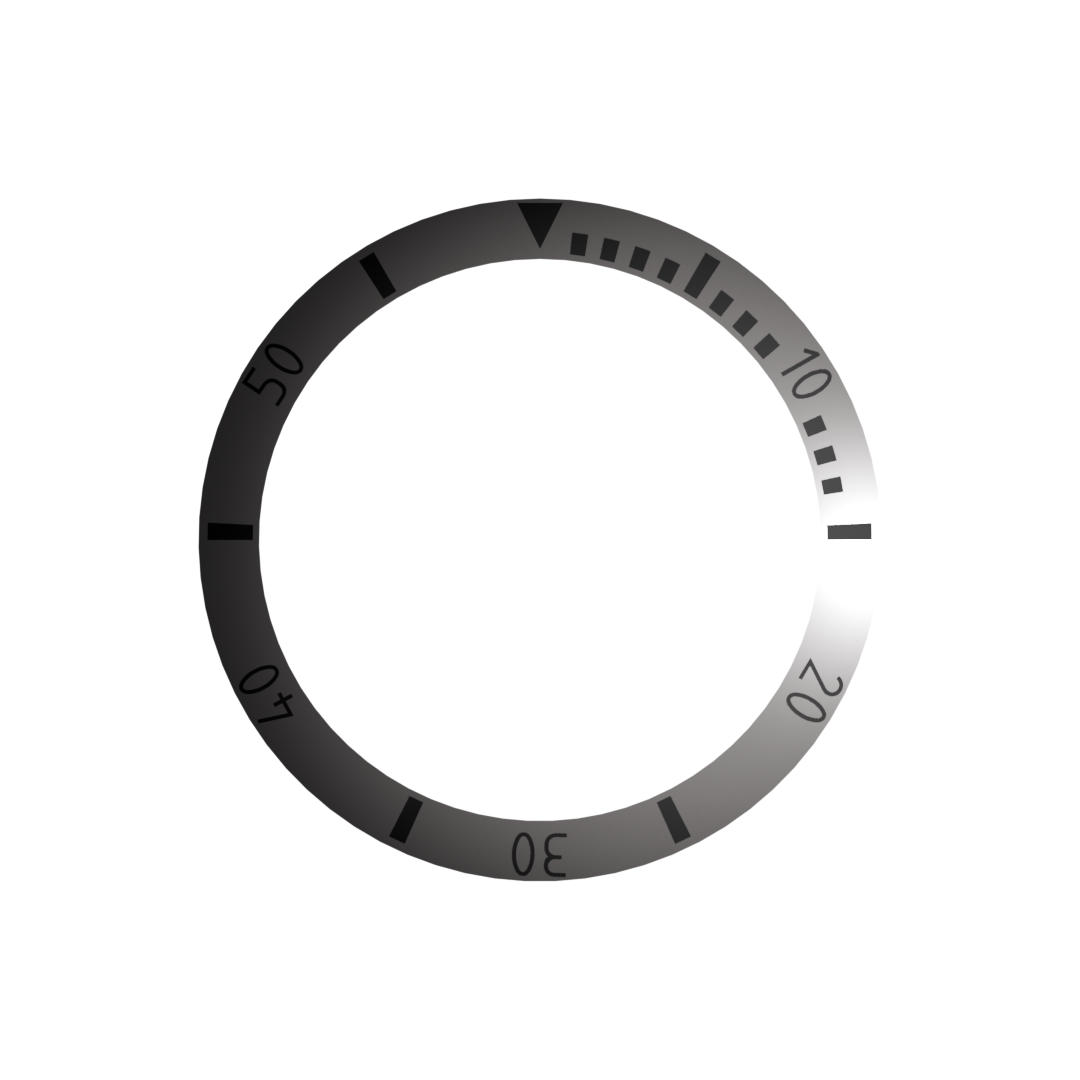
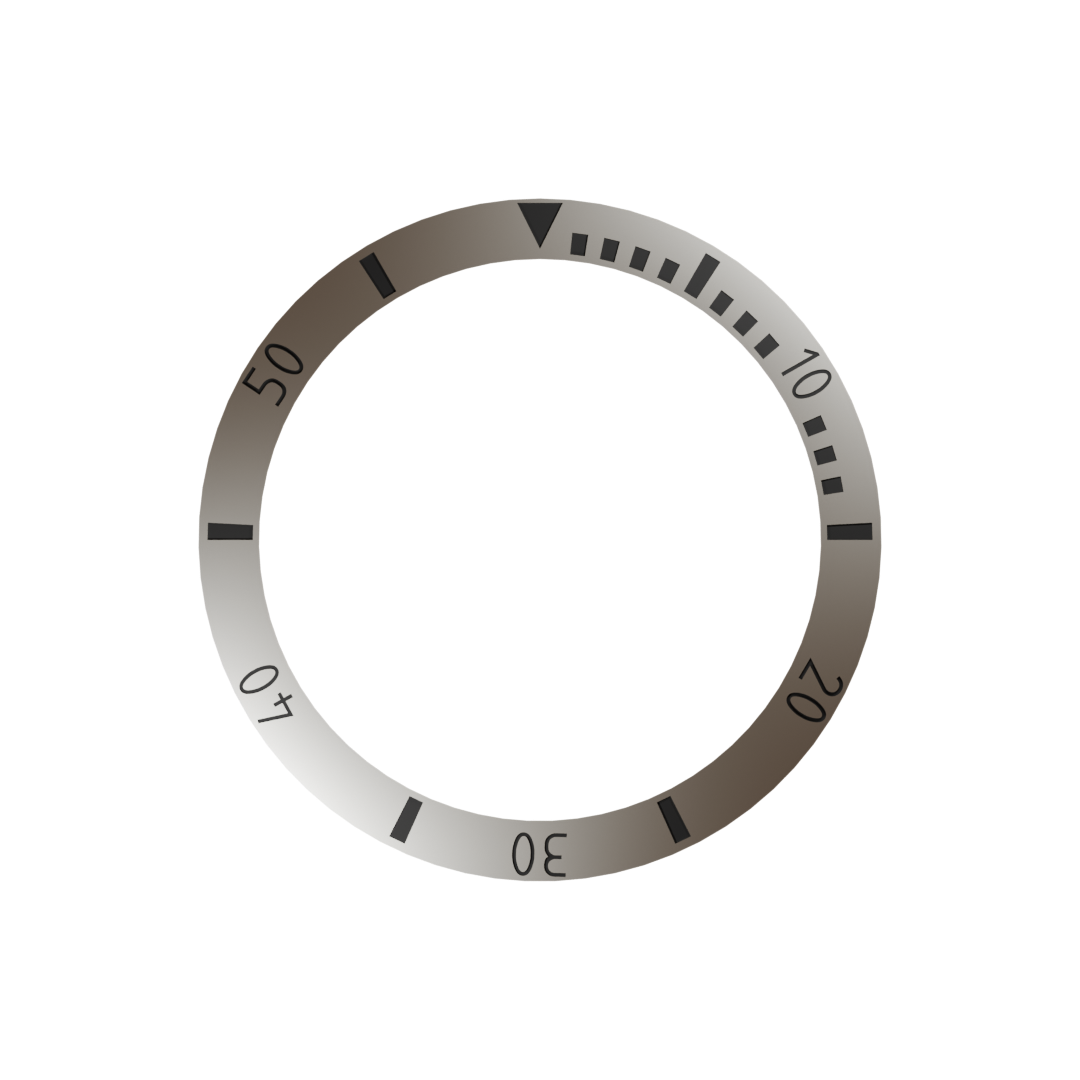
Redo on the renders and improved customization

Changed region(s): [[0.1833, 0.1833, 0.7944, 0.825], [0.6111, 0.3972, 0.825, 0.7944]]

diff --git a/index.html b/index.html
@@ -4,12 +4,14 @@
     <meta charset="UTF-8">
     <meta name="viewport" content="width=device-width, initial-scale=1.0">
     <title>Watch Builder</title>
+    <link href="https://fonts.googleapis.com/css2?family=Roboto:wght@400;700&display=swap" rel="stylesheet">
     <style>
 
         * {
             margin: 0;
             padding: 0;
-            font-family: 'Gill Sans', 'Gill Sans MT', Calibri, 'Trebuchet MS', sans-serif;
+            font-family: 'Roboto', sans-serif;
+            font-weight: 200;
         }
 
         body {
@@ -165,7 +167,7 @@
 
         <div class="selection-div flex-item">
             <br>
-            <h1 id="selection-title">Parts Selection</h1>
+            <h1 id="selection-title" style="font-weight: 200;">Parts Selection</h1>
             <br>
             <hr>
             <br>
@@ -188,13 +190,11 @@
                 <div class="menu-item" id="NH36_white">
                     <h4>NH36 - White</h4>
                     <p style="padding-top: 5px;">Day-Date movement</p>
-                    <p style="padding-top: 5px; color:red;">Dials Not Working</p>
                 </div>
 
                 <div class="menu-item" id="NH36_black">
                     <h4>NH36 - Black</h4>
                     <p style="padding-top: 5px;">Day-Date movement</p>
-                    <p style="padding-top: 5px; color:red;">Dials Not Working</p>
                 </div>
 
                 <div class="menu-item" id="NH38">
@@ -211,120 +211,51 @@
             <div class="dial-selection menu-list hidden">
 
                 <div id="NH34_36-dials" class="hidden">
-                    <h3 class="menu-subtitle">Pilot Style Dials</h3>
+                    <h3 class="menu-subtitle">Pilot Dial</h3>
+
+                        <div class="menu-item dial-buttons" id="pilot-black-dial">
+                            <h4>Black Marks</h4>
+                        </div>
+                        <div class="menu-item dial-buttons" id="pilot-tan__-dial">
+                            <h4>Tan Marks</h4>
+                        </div>
+                        <div class="menu-item dial-buttons" id="pilot-white-dial">
+                            <h4>White Marks</h4>
+                        </div>
                         
-                        <div class="menu-item pilot-dial" id="pilot-black">
-                            <h4>Black - White Indicators</h4>
+                    <h3 class="menu-subtitle">Pilot Dial</h3>
+
+                        <div class="menu-item dial-buttons" id="diver-black-dial">
+                            <h4>Black Marks</h4>
                         </div>
-
-                        <div class="menu-item pilot-dial" id="pilot-black-tan">
-                            <h4>Black - Tan Indicators</h4>
-                        </div>
-
-                        <div class="menu-item pilot-dial" id="pilot-black-black">
-                            <h4>Black - Black Indicators</h4>
-                        </div>
-
-                        <div class="menu-item pilot-dial" id="pilot-blue">
-                            <h4>Blue - White Indicators</h4>
-                        </div>
-
-                        <div class="menu-item pilot-dial" id="pilot-creme">
-                            <h4>Creme - White Indicators</h4>
-                        </div>
-
-                        <div class="menu-item pilot-dial" id="pilot-creme-black">
-                            <h4>Creme - Black Indicators</h4>
-                        </div>
-
-                        <div class="menu-item pilot-dial" id="pilot-gray">
-                            <h4>Gray - White Indicators</h4>
-                        </div>
-
-                        <div class="menu-item pilot-dial" id="pilot-green">
-                            <h4>Green - White Indicators</h4>
-                        </div>
-
-                        <div class="menu-item pilot-dial" id="pilot-white-black">
-                            <h4>White - Black Indicators</h4>
-                        </div>
-
-                        <div class="menu-item pilot-dial" id="pilot-white-tan">
-                            <h4>White - Tan Indicators</h4>
-                        </div>
-
-                    <h3 class="menu-subtitle">Diver Style Dials</h3>
-
-                        <div class="menu-item diver-dial" id="diver-black">
-                            <h4>Black - White Indicators</h4>
-                        </div>
-
-                        <div class="menu-item diver-dial" id="diver-blue">
-                            <h4>Blue - White Indicators</h4>
-                        </div>
-
-                        <div class="menu-item diver-dial" id="diver-lightblue">
-                            <h4>Light Blue - White Indicators</h4>
-                        </div>
-
-                        <div class="menu-item diver-dial" id="diver-orange">
-                            <h4>Orange - White Indicators</h4>
-                        </div>
-
-                        <div class="menu-item diver-dial" id="diver-pink">
-                            <h4>Pink - White Indicators</h4>
-                        </div>
-
-                        <div class="menu-item diver-dial" id="diver-red">
-                            <h4>Red - White Indicators</h4>
-                        </div>
-
-                        <div class="menu-item diver-dial" id="diver-tan">
-                            <h4>Tan - White Indicators</h4>
-                        </div>
-
-                        <div class="menu-item diver-dial" id="diver-white">
-                            <h4>White - White Indicators</h4>
-                        </div>
-
-                        <div class="menu-item diver-dial" id="diver-yellow">
-                            <h4>Yellow - White Indicators</h4>
+                        <div class="menu-item dial-buttons" id="diver-white-dial">
+                            <h4>White Marks</h4>
                         </div>
 
                 </div>
 
                 <div id="NH38-dials" class="hidden">
+
                     <h3 class="menu-subtitle">Exposed Movement</h3>
 
-                        <div class="menu-item open-dial" id="open-black">
-                            <h4>Black</h4>
+                        <div class="menu-item dial-buttons" id="open-white-dial">
+                            <h4>White Marks</h4>
                         </div>
 
-                        <div class="menu-item open-dial" id="open-blue">
-                            <h4>Blue</h4>
+                    <h3 class="menu-subtitle">Dateless Dial</h3>
+                    
+                        <div class="menu-item dial-buttons" id="dateless-black-dial">
+                            <h4>Black Marks</h4>
                         </div>
 
-                        <div class="menu-item open-dial" id="open-gray">
-                            <h4>Gray</h4>
+                        <div class="menu-item dial-buttons" id="dateless-tan__-dial">
+                            <h4>Tan Marks</h4>
                         </div>
 
-                        <div class="menu-item open-dial" id="open-lightblue">
-                            <h4>Light Blue</h4>
+                        <div class="menu-item dial-buttons" id="dateless-white-dial">
+                            <h4>White Marks</h4>
                         </div>
 
-                        <div class="menu-item open-dial" id="open-red">
-                            <h4>Red</h4>
-                        </div>
-
-                        <div class="menu-item open-dial" id="open-white">
-                            <h4>White</h4>
-                        </div>
-
-                        <div class="menu-item open-dial" id="open-yellow">
-                            <h4>Yellow</h4>
-                        </div>
-
-                    <h3 class="menu-subtitle">Dateless</h3>
                 </div>
                 
             </div>
@@ -631,20 +562,102 @@
         </div>
 
         <div class="render-div flex-item">
-            <h1 style="font-size: 2.5rem;">Watch Builder</h1>
+            <h1 style="font-size: 2.5rem; padding-top: 10px; font-weight: 200;">Watch Builder</h1>
 
-            <img id="movement" class="renderImg" src="" alt="">
-            <img id="dial" class="renderImg" src="" alt="">
-            <img id="gmt" class="renderImg" src="" alt="">
-            <img id="hands" class="renderImg" src="" alt="">
-            <img id="case" class="renderImg" src="" alt="">
+            <img id="movement" class="renderImg" src="" alt="" style="filter: drop-shadow(-2.5px 2.5px 5px black);">
+            <div style="width: 100%; display: flex; justify-content: center; align-items: center;" class="renderImg">
+                <div class="greyscale-filter">
+                    <div class="brightness-filter">
+                        <div class="hue-filter">
+                            <img id="dial-blank" class="renderImg" src="" alt="" style="filter: drop-shadow(-2.5px 2.5px 5px black);">
+                        </div>
+                    </div>
+                </div>
+            </div>
+            <img id="dial-overlay" class="renderImg" src="" alt="">
+            <img id="gmt" class="renderImg" src="" alt="" style="filter: drop-shadow(-5px 2.5px 5px black);">
+            <img id="hands" class="renderImg" src="" alt="" style="filter: drop-shadow(-10px 5px 5px black);">
+            <img id="case" class="renderImg" src="" alt="" style="filter: drop-shadow(-2.5px 2.5px 5px black);">
             <img id="bezel" class="renderImg" src="" alt="">
+
+            <div id="color-picker-holder" style="width: 250px; bottom: 5rem; right: 2rem; background-color: aliceblue; padding: 10px; position: absolute; box-shadow: 5px 5px 20px black;" class="hidden">
+                <div style="width: 100%; display: flex; justify-content: left;">
+                    <h3>Color: </h3>
+                    <input id="hue-slider" type="range">
+                    <h4 id="hue-value-text">0</h4>
+                </div>
+                
+            
+                <div style="width: 100%; display: flex; justify-content: left;">
+                    <h3>Brightness: </h3>
+                    <input id="brightness-slider" min="-50" max="150" type="range" style="color: black;">
+                    <h4 id="brightness-value-text">1</h4>
+                </div>
+            
+                <div style="width: 100%; display: flex; justify-content: left;">
+                    <h3>Greyscale: </h3>
+                    <input id="greyscale-slider" type="range">
+                    <h4 id="greyscale-value-text">0</h4>
+                </div>
+            </div>
 
             <p style="top: 95vh; position: absolute;">Built By Russell S.</p>
             <p style="top: 97vh; position: absolute;">Ver. 10/8/2024</p>
         </div>
 
     </div>
+
+    <script>
+
+        // Var Declare
+
+        dialHue = document.querySelector('.hue-filter')
+        dialBrightness = document.querySelector('.brightness-filter')
+        dialGreyscale = document.querySelector('.greyscale-filter')
+
+        hueSlider = document.getElementById("hue-slider")
+        brightnessSlider = document.getElementById("brightness-slider")
+        greyscaleSlider = document.getElementById("greyscale-slider")
+
+        hueSliderText = document.getElementById('hue-value-text')
+        brightnessSliderText = document.getElementById('brightness-value-text')
+        greyscaleSliderManText = document.getElementById('greyscale-value-text')
+
+
+        // Slider Set
+
+        hueSlider.value = 0;
+        brightnessSlider.value = 50;
+        greyscaleSlider.value = 0;
+
+
+        // Slider Code
+
+        hueSlider.addEventListener("input", function() {
+            shift = (hueSlider.value * (360/100));
+            dialHue.style.filter = `hue-rotate(${shift}deg)`
+            hueSliderText.textContent = Math.round(shift)
+        })
+
+        brightnessSlider.addEventListener("input", function(){
+            shift = 1 + ((brightnessSlider.value / 100) - .5);
+
+            if (shift == 2) {
+                shift = 10000
+                brightnessSliderText.textContent = "Max"
+            } else {
+                brightnessSliderText.textContent = Math.round(shift * 10)/10
+            }
+            dialBrightness.style.filter = `brightness(${shift})`
+        })
+
+        greyscaleSlider.addEventListener("input", function(){
+            shift = 1 + ((greyscaleSlider.value / 100) - 1);
+            dialGreyscale.style.filter = `grayscale(${shift})`
+            greyscaleSliderManText.textContent = Math.round(shift * 10)/10
+        })
+
+    </script>
 
     <script>
         function toggleVisibility(event) {
@@ -660,7 +673,8 @@
 
     <script>
         movementImage = document.getElementById("movement");
-        dialImage = document.getElementById("dial");
+        dialBlankImage = document.getElementById("dial-blank");
+        dialOverlayImage = document.getElementById("dial-overlay");
         gmtImage = document.getElementById("gmt");
         handsImage = document.getElementById("hands");
         caseImage = document.getElementById("case");
@@ -736,37 +750,39 @@
 
         // Dial Selection
 
-        const pilotDials = document.querySelectorAll(".pilot-dial");
-        pilotDials.forEach(dial => {
-            dial.addEventListener("click", function() {
-                color = dial.id
-                color = color.substring(6, color.length)
-                fileLocation = "dial/" + currentMovement + "/Pilot/" + color + ".png"
-                dialImage.src = fileLocation
+        const dialButtons = document.querySelectorAll(".dial-buttons");
+        dialButtons.forEach(button => {
+            button.addEventListener("click", function() {
+
+                buttonID = button.id
+                document.getElementById("color-picker-holder").classList.remove('hidden')
+                
+                if (currentMovement == "NH34-NH35") {
+                    dialBlankImage.src = "dial/NH34-NH35-NH36/Blanks/NH34-35.png"
+                } else if(currentMovement == "NH36") {
+                    dialBlankImage.src = "dial/NH34-NH35-NH36/Blanks/NH36.png"
+                } 
+
+                if (buttonID.substring(0, 5) == "diver") {
+
+                    dialOverlayImage.src = "dial/NH34-NH35-NH36/Diver/diver-" + buttonID.substring(6, 11) + ".png"
+
+                } else if (buttonID.substring(0, 5) == "pilot") {
+
+                    dialOverlayImage.src = "dial/NH34-NH35-NH36/Pilot/pilot-" + buttonID.substring(6, 11) + ".png"
+
+                } else if (buttonID.substring(0, 4) == "open") {
+                    dialBlankImage.src = "dial/NH38/exposed.png"
+
+                    dialOverlayImage.src = "dial/NH38/Open-Movement/exposed-" + buttonID.substring(5, 10) + ".png"
+                } else if (buttonID.substring(0, 4) == "date") {
+                    dialBlankImage.src = "dial/NH38/dateless.png"
+                    
+                    dialOverlayImage.src = "dial/NH38/Dateless/pilot-" + buttonID.substring(9, 14) + ".png"
+                }
+
             });
         });
-
-        const diverDials = document.querySelectorAll(".diver-dial");
-        diverDials.forEach(dial => {
-            dial.addEventListener("click", function() {
-                color = dial.id
-                color = color.substring(6, color.length)
-                fileLocation = "dial/" + currentMovement + "/Diver/" + color + ".png"
-                dialImage.src = fileLocation
-            });
-        });
-
-        const openDials = document.querySelectorAll(".open-dial");
-        openDials.forEach(dial => {
-            dial.addEventListener("click", function() {
-                color = dial.id
-                color = color.substring(5, color.length)
-                fileLocation = "dial/" + currentMovement + "/Open-Movement/" + color + ".png"
-                dialImage.src = fileLocation
-            });
-        });
-
-
 
         // Hand Selection
 
@@ -881,8 +897,12 @@
         // Clear All
 
         document.getElementById("clear-button").addEventListener("click", function(){
+
+            document.getElementById("color-picker-holder").classList.add('hidden')
+
             movementImage.src = ""
-            dialImage.src = ""
+            dialBlankImage.src = ""
+            dialOverlayImage.src = ""
             gmtImage.src = ""
             handsImage.src = ""
             caseImage.src = ""
@@ -892,5 +912,6 @@
             caseReveal("none")
         })
     </script>
+
 </body>
 </html>
